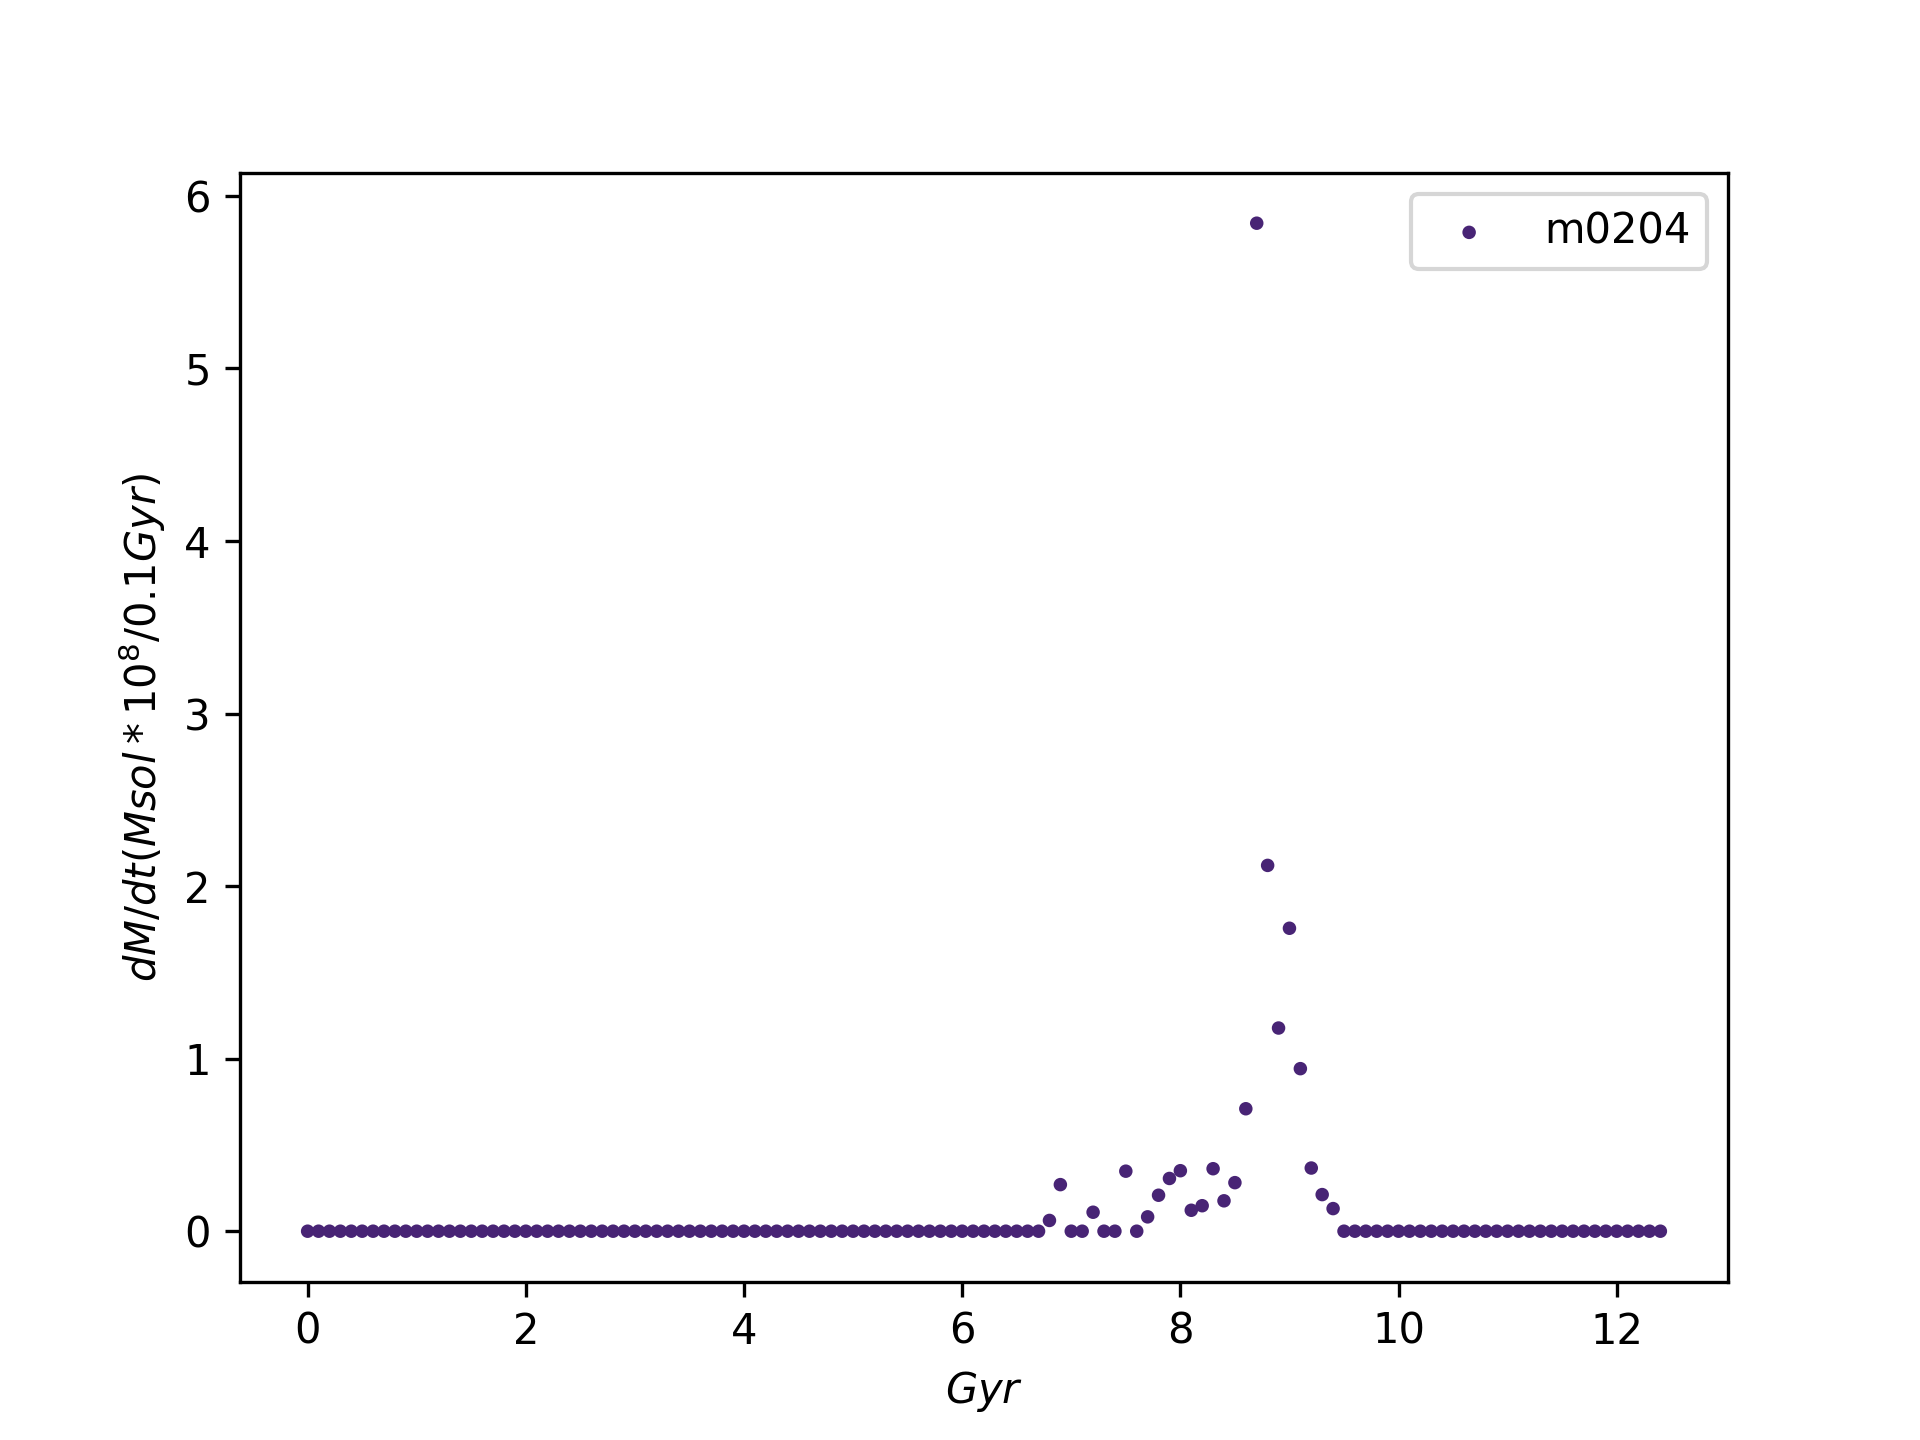
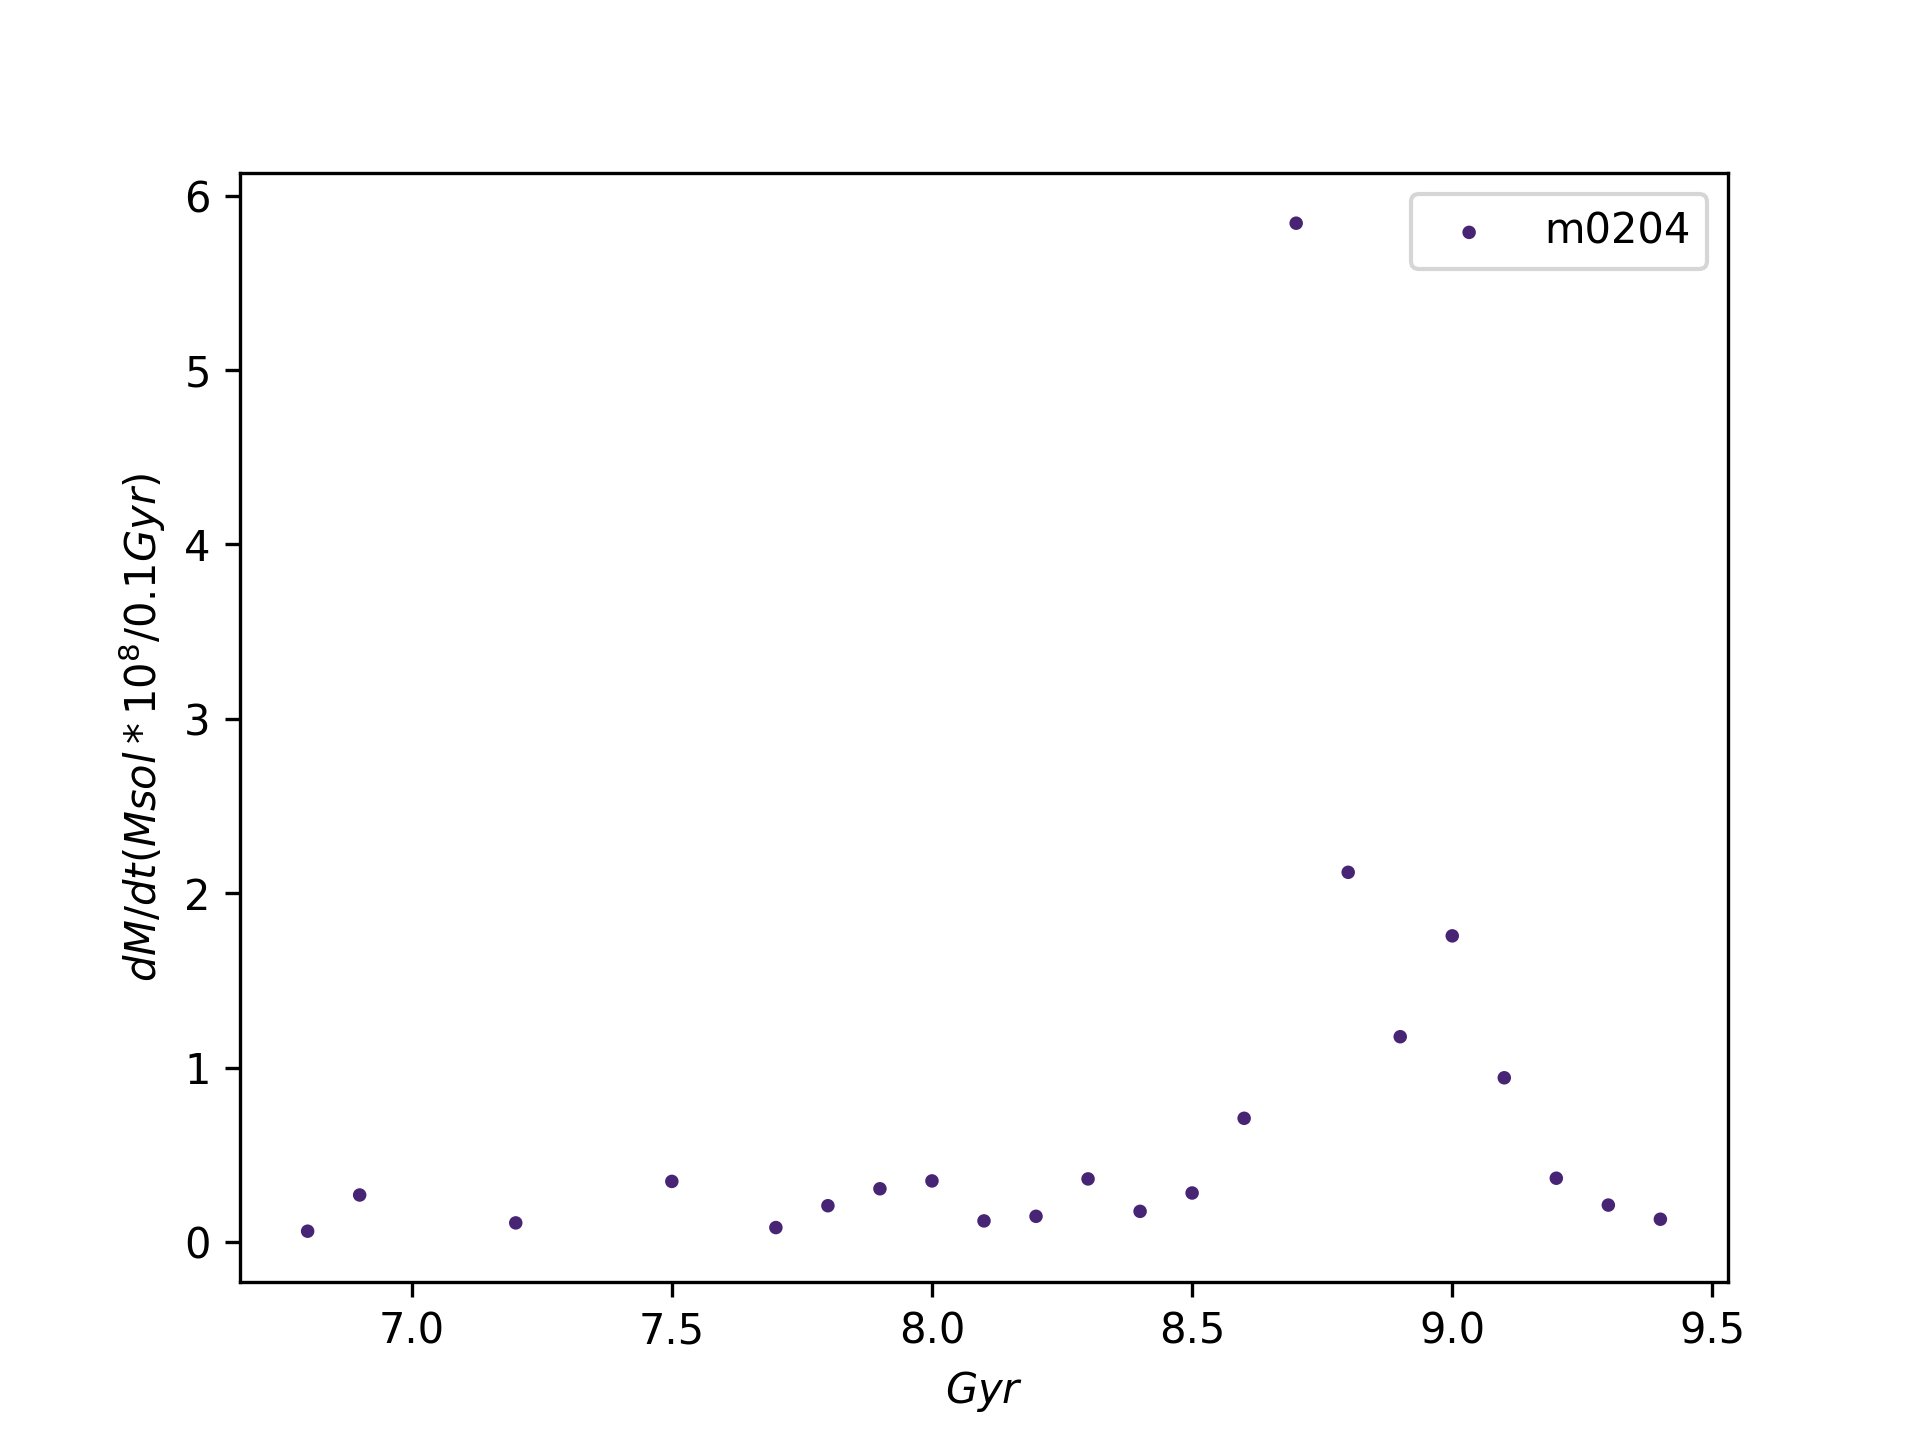
created a dMdt_AvMet diagram with colours

diff --git a/MeanAccrMet_plot/MeanMet_bin.py b/MeanAccrMet_plot/MeanMet_bin.py
@@ -1,0 +1,129 @@
+import numpy as np
+import matplotlib.pyplot as plt
+import math
+import pandas as pd
+import pylab
+from astropy.cosmology import Planck13
+
+Solmet=0.0134
+
+### Read FILE
+columns = []
+data = []
+with open('AGNgas_table_all.txt') as f:
+    i = 0
+    lines = f.readlines()
+    for line in lines:
+        if i == 0:
+            columns = line.split()
+            i+=1
+            continue
+        data.append(dict(zip(columns, line.split())))
+#print(type(data[0]['haloID']))
+
+### Get necessary data
+DATA = []
+for i in data:
+     DATA.append({i['haloID']: i['haloID'], 'part_mass': float(i['m_gas']),'Z' : float(i['Z/Zsolar'])*Solmet, 't' : float(i['z']) })
+#print(FE_MG)
+
+### Create massive of names
+str='a'
+halo_names=[]
+print(data[0]['haloID'])
+print(len(data))
+for j in range(len(data)):
+    if  data[j]['haloID'] not in halo_names:
+        halo_names.append(data[j]['haloID']) 
+print(halo_names)
+
+### Split data for halos
+met =[]
+mass=[]
+time=[]
+for i in range(len(halo_names)):
+    eachhmet=[]
+    eachht=[]
+    eachmass=[]
+    for j in DATA:
+        for k in j:
+            if k==halo_names[i]:
+                eachmass.append(j['part_mass'])
+                eachhmet.append(j['Z']) 
+                eachht.append(j['t']) 
+    met.append(eachhmet)
+    mass.append(eachmass)
+    time.append(eachht)
+#print(mass[0])
+print(type(met[0][0]))   
+
+
+### Convert Redshift to loockback time 
+lb_time=[]
+for i in time:
+    lb_time.append(Planck13.lookback_time(i))
+print(type(lb_time[0][0]))
+print('time')
+#print(Planck13.lookback_time(0.01))
+
+### Turn over dict + time 
+def Turn():
+    #print(Split_dict[0][0])
+    print("here")
+    for i in met:
+        np.flip(i)
+    for i in mass:
+        np.flip(i)
+    for i in time:
+        i.reverse()
+    #print(time[0])
+    #print(Split_dict[0][0])
+Turn()
+
+### Count MeanMet
+st=0.1
+ar=np.arange(0.0,12.5,st)
+
+MeanMet=[]
+print(len(ar))
+for i in range(len(halo_names)):
+    am=[]
+    for j in ar:
+        m=0
+        mm=0
+        for k in range(len(lb_time[i])):
+            if j+st>lb_time[i][k].value>j:
+                m= m + mass[i][k]
+                mm=mm+(mass[i][k]*met[i][k])  
+        if m!=0:
+            am.append((mm/m)/Solmet)
+        else:
+            am.append(0)
+    MeanMet.append(am)    
+print(len(MeanMet[0]))
+
+
+### Creating plot
+def Graph(number):
+    WD = 'MeanAccrMet_plot/'
+    fig, ax = plt.subplots()
+    ax.set_xlabel('$Gyr$')
+    #ax.set_xlim(0,2.7)
+    ax.set_ylabel('$Average(Timebin)Met/Zsolar$')
+    c=[]
+    halo=[]
+    color =number*10
+    i=number
+    c=np.full(len(ar),color)
+    #for j in range(len(time[i])):
+    #ax1.plot(j['t'],'b',j[str])
+    halo.append(ax.scatter(ar, MeanMet[i], s=5, c=c, vmin=0, vmax=100,label=halo_names[i]))
+    #ax.scatter(time, rat, s=6, c=c, vmin=0, vmax=100)
+    ax.legend(handles=halo)
+
+    print(type('t'))
+    #plt.show()
+    plt.savefig(WD+halo_names[i]+'_'+repr(st)+'Gyr_MeanMetdt.png', dpi=300)
+
+for j in range(len(halo_names)):
+    Graph(j)

diff --git a/Accretion_rate/dMdt.py b/Accretion_rate/dMdt.py
@@ -53,6 +53,18 @@ for i in range(len(halo_names)):
 #print(mass[0])
 print(time[0][0])   
 
+### Turn over dict + time 
+def Turn():
+    #print(Split_dict[0][0])
+    print("here")
+    for i in mass:
+        np.flip(i)
+    for i in time:
+        i.reverse()
+
+    #print(time[0])
+    #print(Split_dict[0][0])
+Turn()
 
 ### Convert Redshift to loockback time 
 lb_time=[]
@@ -62,41 +74,34 @@ print(type(lb_time[0][0]))
 print('time')
 #print(Planck13.lookback_time(0.01))
 
-### Turn over dict + time 
-def Turn():
-    #print(Split_dict[0][0])
-    print("here")
-    for i in mass:
-        np.flip(i)
-    for i in time:
-        i.reverse()
-    #print(time[0])
-    #print(Split_dict[0][0])
-Turn()
-
 ### Count dM/dt
 dMdt=[]
+Tb=[]
 st=0.1
 ar=np.arange(0.0,12.5,st)
 print(len(ar))
 for i in range(len(halo_names)):
     dmdt=[]
+    tb=[]
     for j in ar:
         dm=0
         for k in range(len(lb_time[i])):
             if j+st>lb_time[i][k].value>j:
                 dm=dm+mass[i][k]
-        if dm!=0:
+        #if dm!=0:
             #dmdt.append(math.log10(dm))
-            dmdt.append(dm/10**8)
-        else:
-            dmdt.append(0)
+        dmdt.append(dm/10**8)
+        tb.append(j)
+        #else:
+        #    dmdt.append(0)
+        
     dMdt.append(dmdt)    
+    Tb.append(tb)
 print(len(dMdt[0]))
 
 ### Creating plot
 def Graph(number):
-    WD = 'dMdt_plot/'
+    WD = 'Accretion_rate/'
     fig, ax = plt.subplots()
     ax.set_xlabel('$Gyr$')
     #ax.set_xlim(0,2.7)
@@ -105,10 +110,10 @@ def Graph(number):
     halo=[]
     color =number*10
     i=number
-    c=np.full(len(ar),color)
+    c=np.full(len(Tb[i]),color)
     #for j in range(len(time[i])):
     #ax1.plot(j['t'],'b',j[str])
-    halo.append(ax.scatter(ar, dMdt[i], s=5, c=c, vmin=0, vmax=100,label=halo_names[i]))
+    halo.append(ax.scatter(Tb[i], dMdt[i], s=5, c=c, vmin=0, vmax=100,label=halo_names[i]))
     #ax.scatter(time, rat, s=6, c=c, vmin=0, vmax=100)
     ax.legend(handles=halo)
 
@@ -116,6 +121,29 @@ def Graph(number):
     #plt.show()
     plt.savefig(WD+halo_names[i]+'_'+repr(st)+'_dMdt.png', dpi=300)
 
+
+def Hist(number):
+    WD = 'Accretion_rate/'
+    fig, ax = plt.subplots()
+    ax.set_xlabel('$Gyr$')
+    #ax.set_xlim(0,2.7)
+    ax.set_ylabel('$dM/dt (Msol*10^8/$'+repr(st)+'$Gyr)$')
+    c=[]
+    halo=[]
+    color =number*10
+    i=number
+    c=np.full(len(Tb[i]),color)
+    #for j in range(len(time[i])):
+    #ax1.plot(j['t'],'b',j[str])
+    #halo.append(ax.scatter(Tb[i], dMdt[i], s=5, c=c, vmin=0, vmax=100,label=halo_names[i]))
+    #ax.scatter(time, rat, s=6, c=c, vmin=0, vmax=100)
+    ax.hist(dMdt[i], bins=Tb[i])
+    #ax.legend(handles=halo)
+
+    print(type('t'))
+    #plt.show()
+    plt.savefig(WD+halo_names[i]+'_'+repr(st)+'_dMdt.png', dpi=300)
 #for j in range(len(halo_names)):
 #     Graph(j)
 Graph(0)
+Hist(0)

diff --git a/dMdt_MeanMet_diagram/dMdt_MeanMet_diagram.py b/dMdt_MeanMet_diagram/dMdt_MeanMet_diagram.py
@@ -57,7 +57,6 @@ for i in range(len(halo_names)):
 #print(mass[0])
 print(type(met[0][0]))   
 
-
 ### Convert Redshift to loockback time 
 lb_time=[]
 for i in time:
@@ -67,27 +66,29 @@ print('time')
 #print(Planck13.lookback_time(0.01))
 
 ### Turn over dict + time 
-def Turn():
+def Turn(met):
     #print(Split_dict[0][0])
     print("here")
     for i in met:
         np.flip(i)
-    for i in mass:
-        np.flip(i)
-    for i in time:
-        i.reverse()
     #print(time[0])
     #print(Split_dict[0][0])
-Turn()
+Turn(met)
+Turn(mass)
+Turn(time)
 
-### Count MeanMet
+### Count data
 st=0.1
 ar=np.arange(0.0,12.5,st)
 
 MeanMet=[]
+dMdt=[]
+Tb=[]
 print(len(ar))
 for i in range(len(halo_names)):
+    tb=[]
     am=[]
+    dmdt=[]
     for j in ar:
         m=0
         mm=0
@@ -97,33 +98,49 @@ for i in range(len(halo_names)):
                 mm=mm+(mass[i][k]*met[i][k])  
         if m!=0:
             am.append((mm/m)/Solmet)
-        else:
-            am.append(0)
-    MeanMet.append(am)    
+            dmdt.append(m/10**8)
+            tb.append(j)
+    MeanMet.append(am) 
+    dMdt.append(dmdt)
+    Tb.append(tb)
 print(len(MeanMet[0]))
 
-
+lb=np.arange(0,12.1,1.5)
 ### Creating plot
 def Graph(number):
-    WD = 'MeanMetdt_plot/'
+    WD = 'dMdt_MeanMet_diagram/'
     fig, ax = plt.subplots()
-    ax.set_xlabel('$Gyr$')
+    ax.set_xlabel('$Average(Timebin)Met/Zsolar$')
     #ax.set_xlim(0,2.7)
-    ax.set_ylabel('$AverageMet/Zsolar$')
+    ax.set_ylabel('$dM/dt (Msol*10^8/$'+repr(st)+'$Gyr)$')
     c=[]
     halo=[]
     color =number*10
     i=number
-    c=np.full(len(ar),color)
+    c=np.full(len(Tb[i]),color)
+    ax.set_title(halo_names[i])
     #for j in range(len(time[i])):
     #ax1.plot(j['t'],'b',j[str])
-    halo.append(ax.scatter(ar, MeanMet[i], s=5, c=c, vmin=0, vmax=100,label=halo_names[i]))
+
+    for j in lb:
+        dm=[]
+        Z=[]
+        for k in range(len(Tb[i])):
+            if (j+0.75)>Tb[i][k]>(j-0.75):
+                dm.append(dMdt[i][k])
+                Z.append(MeanMet[i][k])
+        if len(dm)!=0:
+            c=np.full(len(Z),j)
+            ax.scatter(Z,dm,s=6,c=c,vmin=0,vmax=11,label=j)
+            ax.legend(title='Gyr',fontsize='small')            
+        #halo.append(ax.scatter(MeanMet[i], dMdt[i], s=5, c=c, vmin=0, vmax=100,label=halo_names[i]))
     #ax.scatter(time, rat, s=6, c=c, vmin=0, vmax=100)
-    ax.legend(handles=halo)
+    #ax.legend(handles=halo)
 
     print(type('t'))
     #plt.show()
-    plt.savefig(WD+halo_names[i]+'_'+repr(st)+'Gyr_MeanMetdt.png', dpi=300)
+    plt.savefig(WD+halo_names[i]+'_dMdt_MeanMet.png', dpi=300)
 
 for j in range(len(halo_names)):
-    Graph(j)
+   Graph(j)
+Graph(0)

diff --git a/FeH_AlphaFe.py b/FeH_AlphaFe.py
@@ -100,11 +100,11 @@ c=[]
 halo=[]
 i =0 
 #color = [round(num*2, 0) for num in time[i]]
-c= []
-p=[]
-for j in time[i]:
-    if j not in c:
-        c.append(j)
+# c= []
+# p=[]
+# for j in time[i]:
+#     if j not in c:
+#         c.append(j)
 z=np.arange(0,3,0.5)
 print(z)
 #c=np.full(len(time[i]),color)
